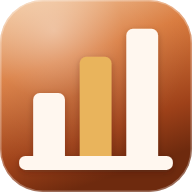
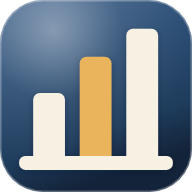
Corectez constatarile verificatorului de cod (v05)
- #1 (important): --glass-bg-strong in tema intunecata ramasese espresso
  (rgba(52,39,30,.80)) -> navy rgba(30,44,70,.82). Afecta sticla densa de sub
  butonul "inapoi" (.icon-btn) si fata cardului de memorare, care apareau maro
  pe fundal navy in modul implicit.
- #2 (minor): comentariu invechit la --ink-muted de contrast ridicat intunecat
  ("10.03:1 pe espresso" -> "8,99:1 pe bleumarin (AAA)").
- #3 (minor): iconita PWA regenerata pe paleta v05 (camp bleumarin, bare de nisip
  + aur), in loc de gradientul teracota vechi. tools/genereaza-iconite.mjs +
  icons/*.png + icon-source.svg.

Raport verificare v05 actualizat cu constatarile verificatorului de cod.

Claude-Session: https://claude.ai/code/session_013UcFVTySiQGAAk7uyNfVAq

diff --git a/assets/app.css b/assets/app.css
@@ -305,7 +305,7 @@
   --focus-ring: 0 0 0 3px var(--surface-base), 0 0 0 6px var(--brand);
 }
 :root:where([data-contrast="ridicat"][data-tema="intunecat"]){
-  --ink-muted: #D2BCA2;                /* 10.03:1 pe espresso */
+  --ink-muted: #D2BCA2;                /* 8,99:1 pe bleumarin (AAA) */
 }
 
 /* ═══════════════════════════════════════════════════════════════════════════
@@ -372,7 +372,7 @@
 }
 
 :root:where([data-tema="intunecat"]){
-  --glass-bg-strong:   rgba(52,39,30,.80);
+  --glass-bg-strong:   rgba(30,44,70,.82);   /* sticlă densă navy, aliniată cu --glass-bg */
   --glass-highlight:   rgba(214,228,246,.11);
   --glass-inner-shadow:rgba(0,0,0,.32);
 

diff --git a/vault/40-Verificare/Raport verificare v05.md b/vault/40-Verificare/Raport verificare v05.md
@@ -51,4 +51,27 @@ Doi agenți independenți, lansați în paralel: `verificator-cod` (recitire adv
 diff-ului + bateria locală) și `verificator-ui` (server local + capturi Playwright pe scara
 320–1440px plus peisaj, ambele teme, cu contrast ridicat și transparență redusă).
 
-_(Se completează cu constatările lor la finalul rulării.)_
+### verificator-cod — 3 constatări corectate, niciun blocant
+
+- **#1 (important, corectat).** `--glass-bg-strong` din tema întunecată rămăsese espresso
+  (`rgba(52,39,30,.80)`) — sticla densă de sub **butonul „înapoi"** (`.icon-btn`, prezent pe
+  fiecare ecran de detaliu) și **fața cardului de memorare** (`#/carduri`). Rezultat: apăreau
+  maro pe fundal navy, exact în modul implicit (transparență + contrast normale) — o regresie
+  cromatică pe care niciun verificator structural n-o prinde. Corectat pe navy
+  `rgba(30,44,70,.82)`, aliniat cu `--glass-bg`. (La transparență redusă / contrast ridicat
+  tokenul cădea deja pe `surface-raised` navy, deci defectul era doar în modul implicit.)
+- **#2 (minor, corectat).** Comentariul de la override-ul `--ink-muted` de contrast ridicat
+  (întunecat) spunea „10.03:1 pe espresso"; fundalul e acum navy → raportul real e **8,99:1**
+  (tot AAA). Comentariu actualizat.
+- **#3 (minor, corectat).** Iconița PWA (`icons/`) folosea încă gradientul teracotă vechi
+  (`#9E4119`). Regenerată pe paleta v05 — câmp bleumarin, bare de nisip fildeș + aur (concept
+  preluat din planșa 1) — cu `tools/genereaza-iconite.mjs`.
+- **#4 (pre-existent, lăsat).** Câteva umbre calde `rgba(90,58,32,.x)` din stratul de
+  componente randează în ambele teme; alfa mic (.10–.30), abia perceptibile pe navy, nu-s
+  regresie v05.
+- În rest: toți verificatorii locali trec, versiunile sincronizate (v9 / cache 9 / `?v=9`),
+  zero tokeni de culoare orfani, contrast recalculat independent — toate perechile AA.
+
+### verificator-ui
+
+_(Se completează când raportează.)_
